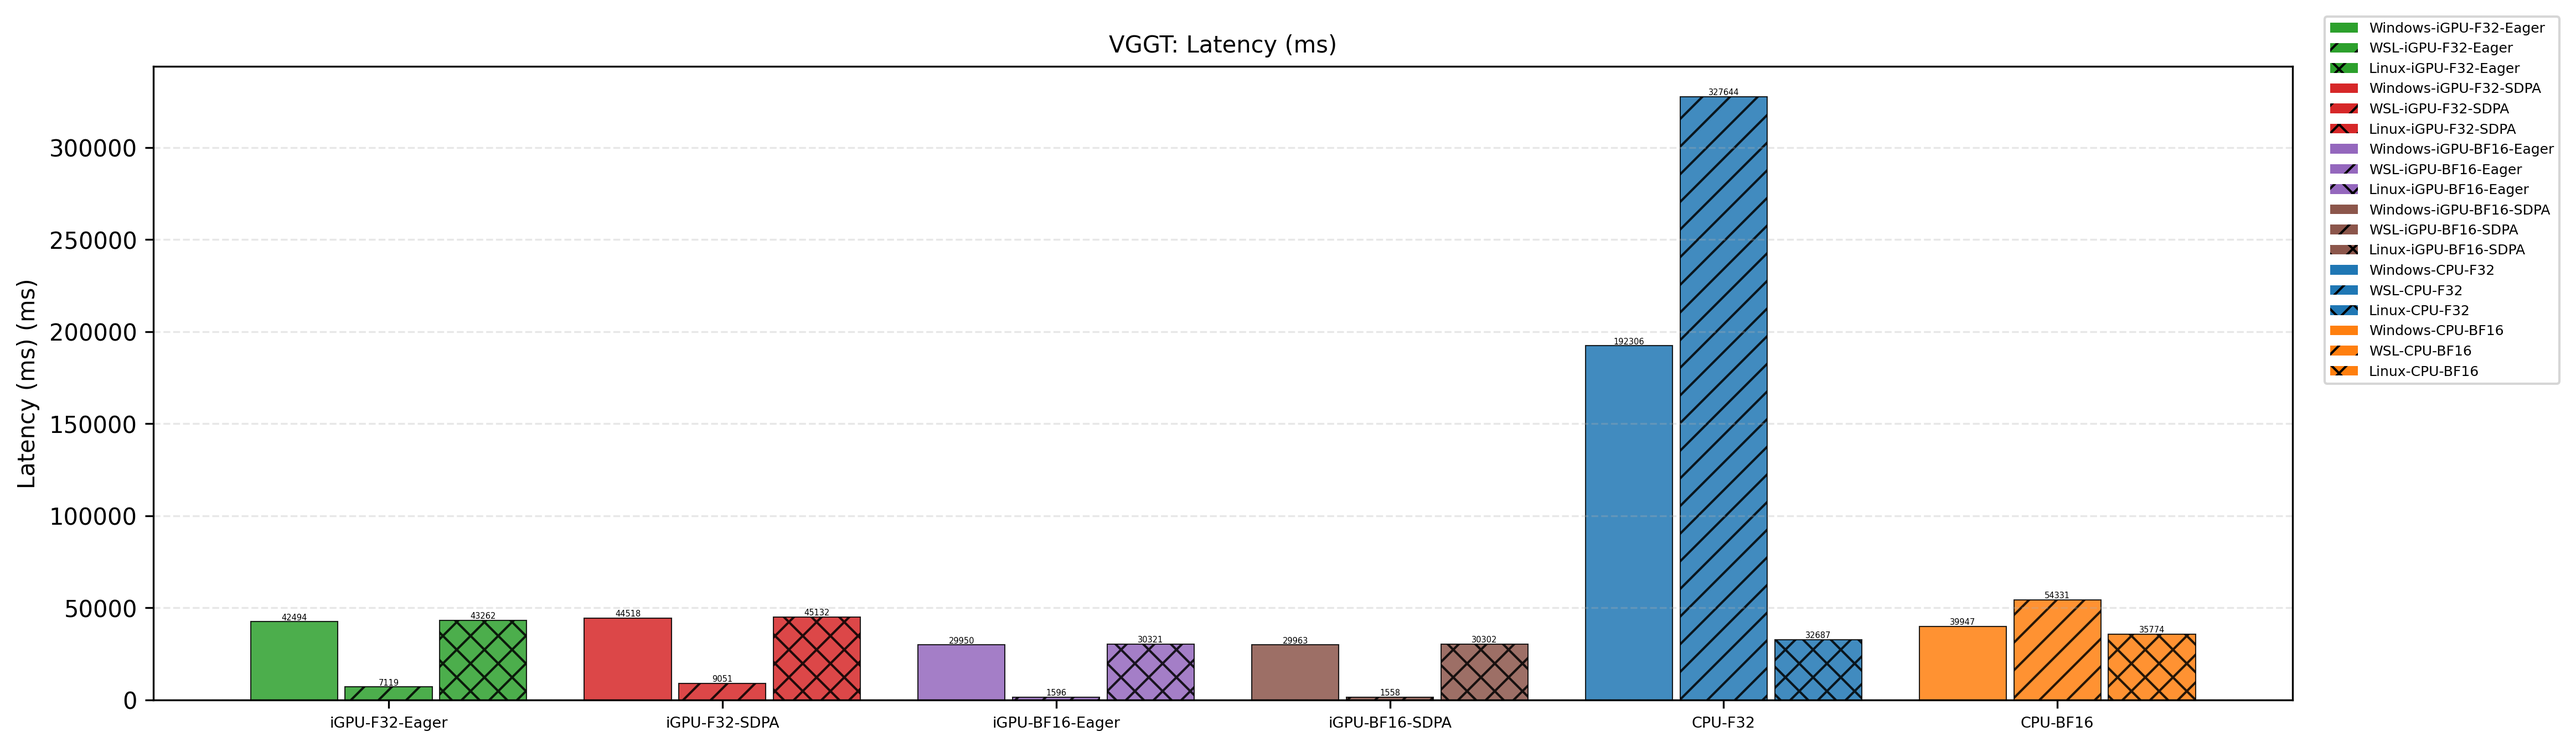
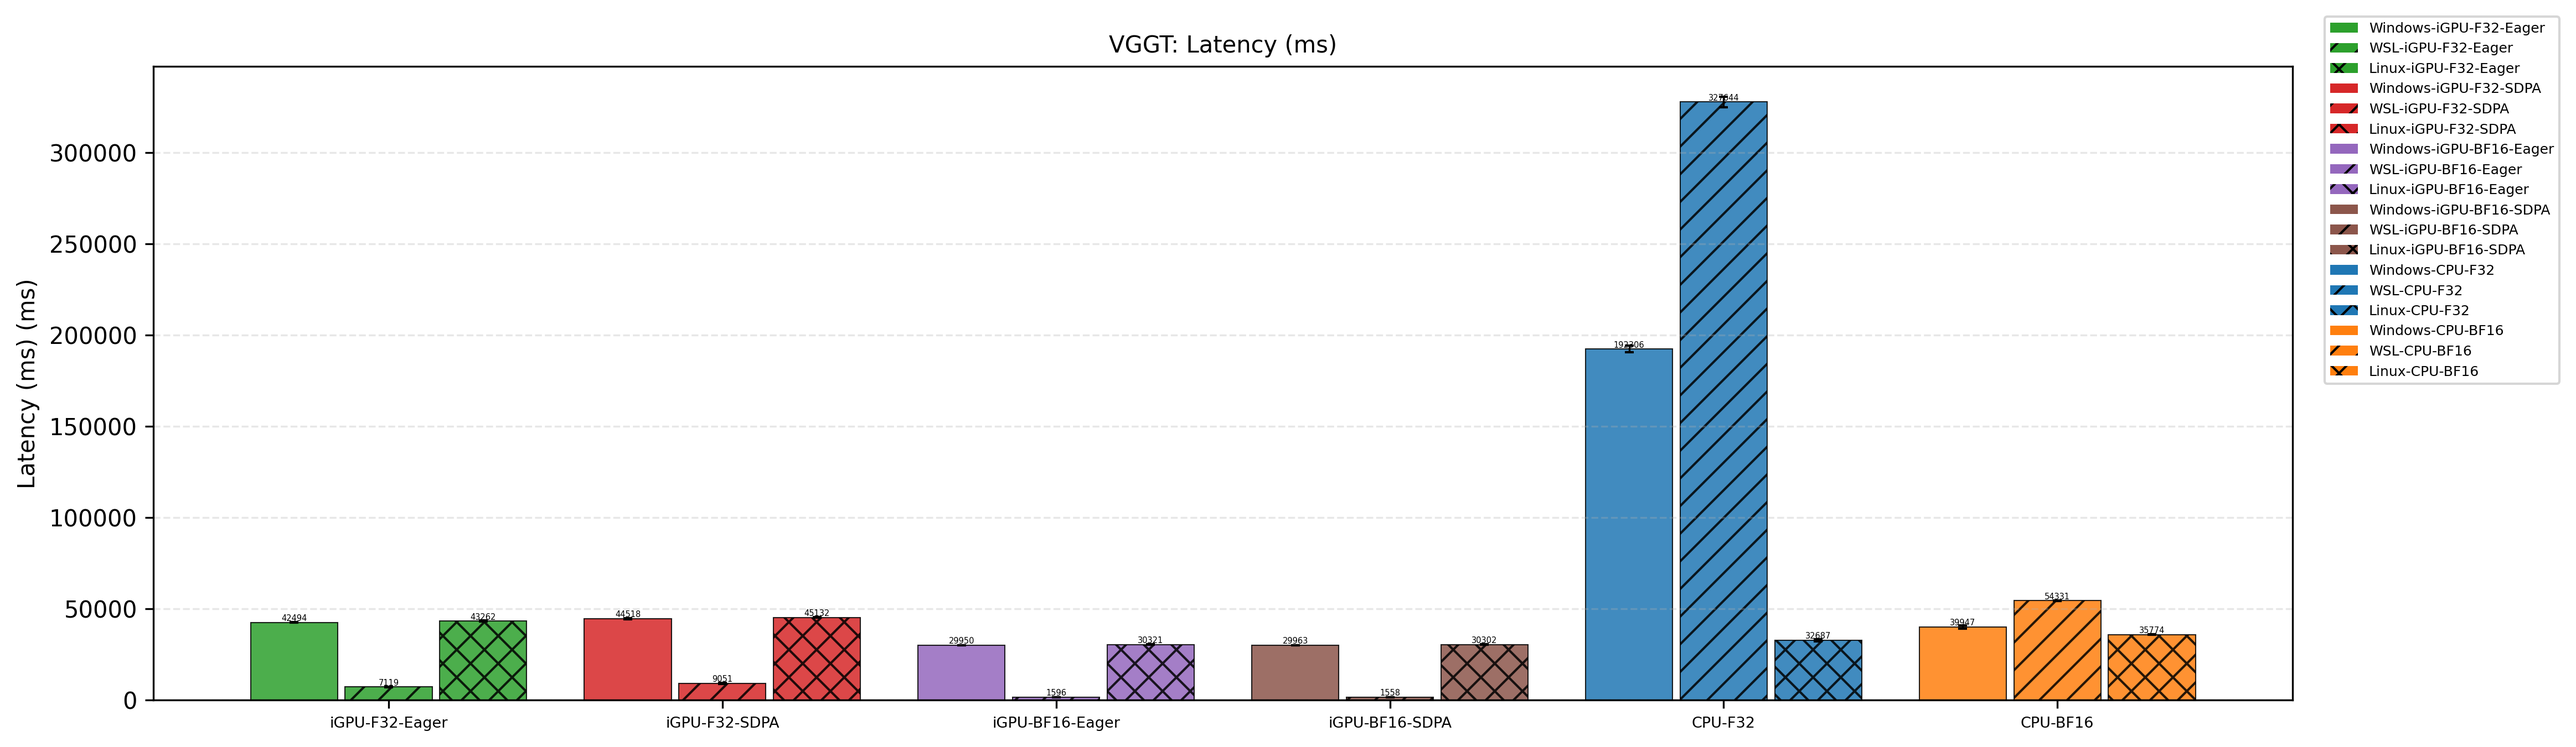
feat(benchmarks): add error bars to comparison charts

diff --git a/benchmarks/generate_comparison_charts.py b/benchmarks/generate_comparison_charts.py
@@ -41,6 +41,33 @@ def extract_metrics(entry):
     metrics.update(extract_memory(entry))
     return metrics
 
+def extract_metrics_with_error(entry):
+    lat = entry.get('latency', {})
+    metrics = {}
+    errors = {}
+    if 'ttft_ms_mean' in lat:
+        metrics['TTFT (ms)'] = lat['ttft_ms_mean']
+        errors['TTFT (ms)'] = abs(lat.get('ttft_ms_p95', lat['ttft_ms_mean']) - lat['ttft_ms_mean'])
+        metrics['TPOT (ms)'] = lat['tpot_ms_mean']
+        errors['TPOT (ms)'] = abs(lat.get('tpot_ms_p95', lat['tpot_ms_mean']) - lat['tpot_ms_mean'])
+    if 'latency_ms_mean' in lat:
+        metrics['Latency (ms)'] = lat['latency_ms_mean']
+        errors['Latency (ms)'] = abs(lat.get('latency_ms_p95', lat['latency_ms_mean']) - lat['latency_ms_mean'])
+        metrics['Throughput (img/s)'] = lat.get('batch_throughput_img_per_sec', 0)
+    p = entry.get('power_energy', {})
+    metrics['Avg Power (W)'] = p.get('avg_total_adjusted_w', 0)
+    metrics['Energy per Inference (J)'] = p.get('energy_per_inference_j', 0)
+    if 'tokens_per_joule_p50' in p:
+        metrics['Tokens per Joule'] = p['tokens_per_joule_p50']
+    if 'img_per_sec_watt' in p and p.get('img_per_sec_watt', 0) > 0:
+        metrics['Efficiency (img/W)'] = p['img_per_sec_watt']
+    m = entry.get('memory', {})
+    if 'cpu_rss_mb' in m:
+        metrics['Peak Memory (GB)'] = m['cpu_rss_mb'] / 1024
+    else:
+        metrics['Peak Memory (GB)'] = m.get('peak_mem_allocated_gb', 0)
+    return metrics, errors
+
 smolvlm_pt_all = load_json('profiling_logs/smolvlm_pytorch.json')
 vggt_all = load_json('profiling_logs/vggt_pytorch.json')
 llamacpp_all = load_json('profiling_logs/smolvlm_llamacpp.json')
@@ -61,8 +88,19 @@ def load_llamacpp_data():
 llamacpp_records = load_llamacpp_data()
 
 def avg_metric(entries, metric_key):
-    vals = [extract_metrics(e).get(metric_key) for e in entries if extract_metrics(e).get(metric_key, 0) > 0]
-    return sum(vals) / len(vals) if vals else None
+    vals = []
+    errs = []
+    for e in entries:
+        m, err = extract_metrics_with_error(e)
+        v = m.get(metric_key)
+        if v is not None and v > 0:
+            vals.append(v)
+            errs.append(err.get(metric_key) if err.get(metric_key) is not None else 0)
+    if not vals:
+        return None, None
+    avg = sum(vals) / len(vals)
+    err = sum(errs) / len(errs) if errs else None
+    return avg, err
 
 SMOLVLM_PT_CFGS = ['cuda_bfloat16_eager', 'cuda_bfloat16_sdpa', 'cpu_bfloat16_none']
 VGGT_CFGS = ['cuda_float32_eager', 'cuda_float32_sdpa', 'cuda_bfloat16_eager', 'cuda_bfloat16_sdpa', 'cpu_float32_none', 'cpu_bfloat16_none']
@@ -75,7 +113,7 @@ ENV_HATCH = {'PyTorch': '', 'llama.cpp': '///'}
 def sanitize(s):
     return s.lower().replace(" ", "_").replace("(", "").replace(")", "").replace("/", "_per_")
 
-def plot_bars(ax, groups, group_labels, ylabel, title, legend_handles, fig_w=10, fig_h=4.5):
+def plot_bars(ax, groups, group_labels, ylabel, title, legend_handles, fig_w=10, fig_h=4.5, errors=None):
     max_bars = max(len(g) for g in groups) if groups else 1
     width = 0.85 / max_bars
     positions, vals = [], []
@@ -85,10 +123,25 @@ def plot_bars(ax, groups, group_labels, ylabel, title, legend_handles, fig_w=10,
             positions.append(gpos + bi * width)
             vals.append(bar['value'] if bar['value'] is not None else 0)
 
-    colors = [bar.get('color', '#ccc') if bar['value'] is not None else '#ddd' for bar in sum(groups, [])]
+    flat_bars = sum(groups, [])
+    colors = [bar.get('color', '#ccc') if bar['value'] is not None else '#ddd' for bar in flat_bars]
+
     bars = ax.bar(positions, vals, width=width * 0.92, color=colors, alpha=0.85, edgecolor='black', linewidth=0.5)
 
-    for bar, bdict in zip(bars, sum(groups, [])):
+    if errors and any(e is not None for e in errors):
+        for i, (bar, err) in enumerate(zip(bars, errors)):
+            if err is not None:
+                ax.errorbar(
+                    bar.get_x() + bar.get_width() / 2.0,
+                    bar.get_height(),
+                    yerr=err,
+                    fmt='none',
+                    ecolor='black',
+                    capsize=2,
+                    linewidth=0.8,
+                )
+
+    for bar, bdict in zip(bars, flat_bars):
         bar.set_hatch(bdict.get('hatch', ''))
         if bdict['value'] is None:
             bar.set_alpha(0.25)
@@ -186,6 +239,7 @@ def plot_smolvlm_instruct():
             bg = []
             for cfg_name in configs_in_group:
                 v = None
+                err = None
                 if 'PyTorch' in cfg_name:
                     parts = cfg_name.split('-')
                     env = parts[0]
@@ -194,14 +248,18 @@ def plot_smolvlm_instruct():
                     pt_cfg = pt_map.get(rest)
                     if pt_cfg:
                         entry = pt_data.get((model, pt_cfg, env))
-                        v = extract_metrics(entry).get(metric) if entry else None
+                        if entry:
+                            m, e = extract_metrics_with_error(entry)
+                            v = m.get(metric)
+                            err = e.get(metric)
                 else:
                     bk = 'cpu' if '-CPU' in cfg_name else ('vulkan' if 'Vulkan' in cfg_name else 'rocm')
                     quant = dtype_name
                     entries = llamacpp_records.get((model, bk, quant))
-                    v = avg_metric(entries, metric) if entries else None
+                    v, err = avg_metric(entries, metric) if entries else (None, None)
                 bg.append({
                     'value': v,
+                    'error': err,
                     'color': cfg_color.get(cfg_name, '#ccc'),
                     'hatch': cfg_hatch.get(cfg_name, ''),
                     'label': cfg_name,
@@ -209,9 +267,18 @@ def plot_smolvlm_instruct():
             groups.append(bg)
 
         from matplotlib.patches import Patch
-        all_cfgs = list(dict.fromkeys(sum(dtype_groups.values(), [])))  # unique, ordered
+        all_cfgs = list(dict.fromkeys(sum(dtype_groups.values(), [])))
         leg = [Patch(facecolor=cfg_color[c], hatch=cfg_hatch.get(c, ''), label=c) for c in all_cfgs]
-        plot_bars(ax, groups, labels, f'{metric} ({unit})', f'SmolVLM-Instruct: {metric}', leg, fig_w=12, fig_h=4)
+
+        err_vals = []
+        for g in groups:
+            for b in g:
+                if b['value'] is not None and b.get('error') is not None:
+                    err_vals.append(b['error'])
+                else:
+                    err_vals.append(None)
+
+        plot_bars(ax, groups, labels, f'{metric} ({unit})', f'SmolVLM-Instruct: {metric}', leg, fig_w=12, fig_h=4, errors=err_vals if any(v is not None for v in err_vals) else None)
         fname = f'smolvlm_instruct_{sanitize(metric)}.png'
         fig.savefig(output_dir / fname, dpi=300, bbox_inches='tight')
         plt.close(fig)
@@ -254,14 +321,19 @@ def plot_vggt():
             for env in envs:
                 e = idx.get((cfg, env))
                 v = None
+                err = None
                 if e:
                     if 'Efficiency' in metric:
-                        raw = extract_metrics(e).get('Efficiency (img/W)')
+                        m = extract_metrics(e)
+                        raw = m.get('Efficiency (img/W)')
                         v = raw * 1000 if raw else None
                     else:
-                        v = extract_metrics(e).get(metric)
+                        m, er = extract_metrics_with_error(e)
+                        v = m.get(metric)
+                        err = er.get(metric)
                 bg.append({
                     'value': v,
+                    'error': err,
                     'color': cfg_color_map.get(cfg_disp.get(cfg, cfg), '#ccc'),
                     'hatch': env_hatch_map.get(env, ''),
                     'label': f'{env}-{cfg_disp.get(cfg, cfg)}',
@@ -280,7 +352,16 @@ def plot_vggt():
                      label=f'{env}-{cfg_disp.get(cfg, cfg)}')
                for cfg in VGGT_CFGS for env in envs
                if f'{env}-{cfg_disp.get(cfg, cfg)}' in seen]
-        plot_bars(ax, groups, labels, f'{metric} ({unit})', f'VGGT: {metric}', leg, fig_w=14, fig_h=4.5)
+
+        err_vals = []
+        for g in groups:
+            for b in g:
+                if b['value'] is not None and b.get('error') is not None:
+                    err_vals.append(b['error'])
+                else:
+                    err_vals.append(None)
+
+        plot_bars(ax, groups, labels, f'{metric} ({unit})', f'VGGT: {metric}', leg, fig_w=14, fig_h=4.5, errors=err_vals if any(v is not None for v in err_vals) else None)
         fname_base = metric.replace(' (million images / W)', '').replace(' (', '_').replace(')', '').replace('/', '_').lower()
         fname = f'vggt_{sanitize(fname_base)}.png'
         fig.savefig(output_dir / fname, dpi=300, bbox_inches='tight')
@@ -345,18 +426,36 @@ def plot_family():
             bg = []
             for bk, d in backend_dtypes:
                 v = None
+                err = None
                 if bk == 'PyTorch-iGPU-sdpa':
                     entry = pt_data.get((model, 'cuda_bfloat16_sdpa', 'Linux'))
-                    v = extract_metrics(entry).get(metric) if entry else None
+                    if entry:
+                        m, e = extract_metrics_with_error(entry)
+                        v = m.get(metric)
+                        err = e.get(metric)
                 else:
                     bk_short = bk.split('-')[1]  # 'cpu', 'vulkan', 'rocm'
                     entries = llamacpp_records.get((model, bk_short, d))
-                    v = avg_metric(entries, metric) if entries else None
+                    v, err = avg_metric(entries, metric) if entries else (None, None)
                 key = f'{bk}-{d}'
-                bg.append({'value': v, 'color': bar_colors.get(key, '#ccc'), 'hatch': bar_hatches.get(key, ''), 'label': key})
+                bg.append({
+                    'value': v,
+                    'error': err,
+                    'color': bar_colors.get(key, '#ccc'),
+                    'hatch': bar_hatches.get(key, ''),
+                    'label': key,
+                })
             groups.append(bg)
 
         from matplotlib.patches import Patch
+        err_vals = []
+        for g in groups:
+            for b in g:
+                if b['value'] is not None and b.get('error') is not None:
+                    err_vals.append(b['error'])
+                else:
+                    err_vals.append(None)
+
         leg = []
         seen = set()
         for bk, d in backend_dtypes:
@@ -365,7 +464,7 @@ def plot_family():
             if lbl not in seen:
                 seen.add(lbl)
                 leg.append(Patch(facecolor=bar_colors.get(key, '#ccc'), hatch=bar_hatches.get(key, ''), label=lbl))
-        plot_bars(ax, groups, labels, f'{metric} ({unit})', f'SmolVLM family: {metric}', leg, fig_w=16, fig_h=5.5)
+        plot_bars(ax, groups, labels, f'{metric} ({unit})', f'SmolVLM family: {metric}', leg, fig_w=16, fig_h=5.5, errors=err_vals if any(v is not None for v in err_vals) else None)
         fname = f'smolvlm_llamacpp_{sanitize(metric)}.png'
         fig.savefig(output_dir / fname, dpi=300, bbox_inches='tight')
         plt.close(fig)
